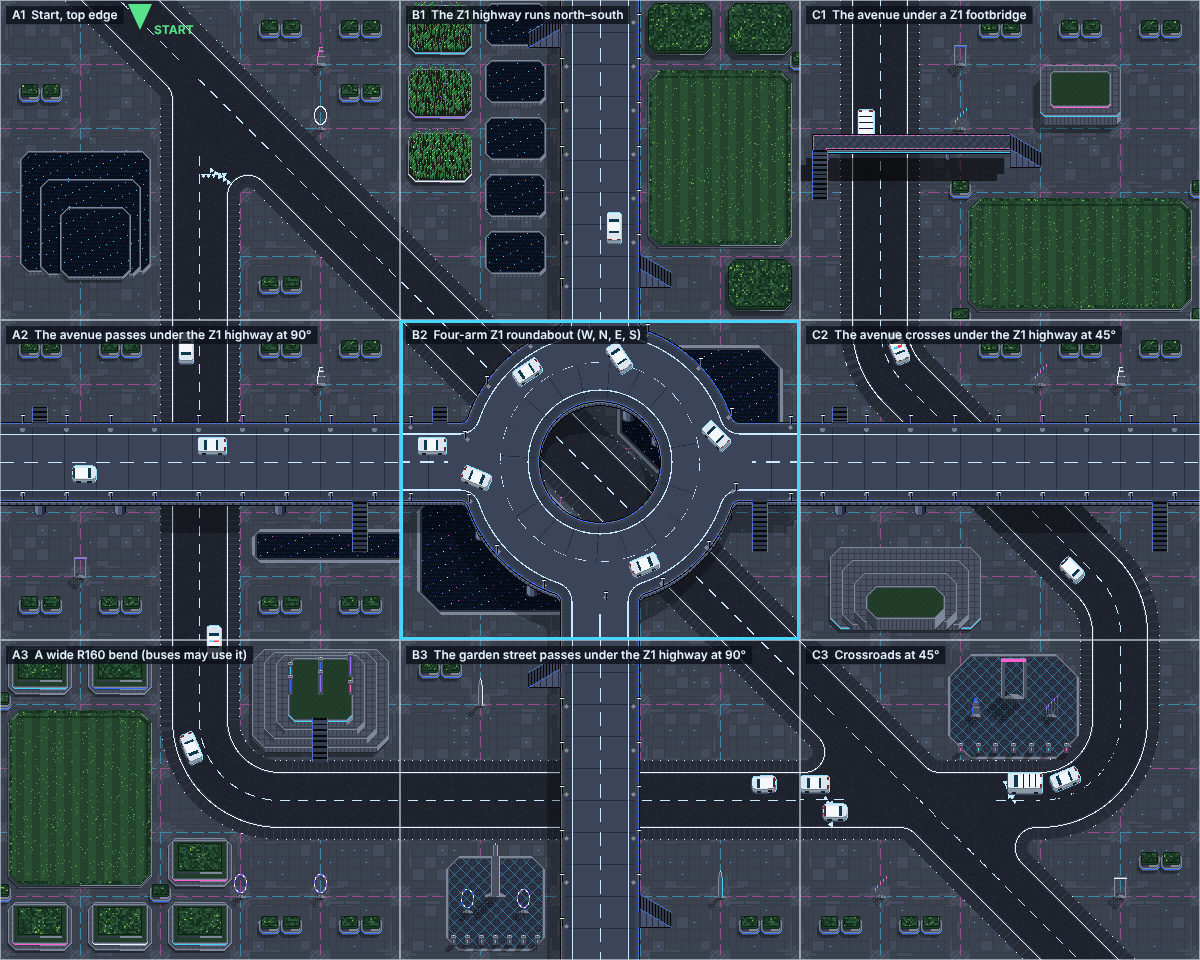
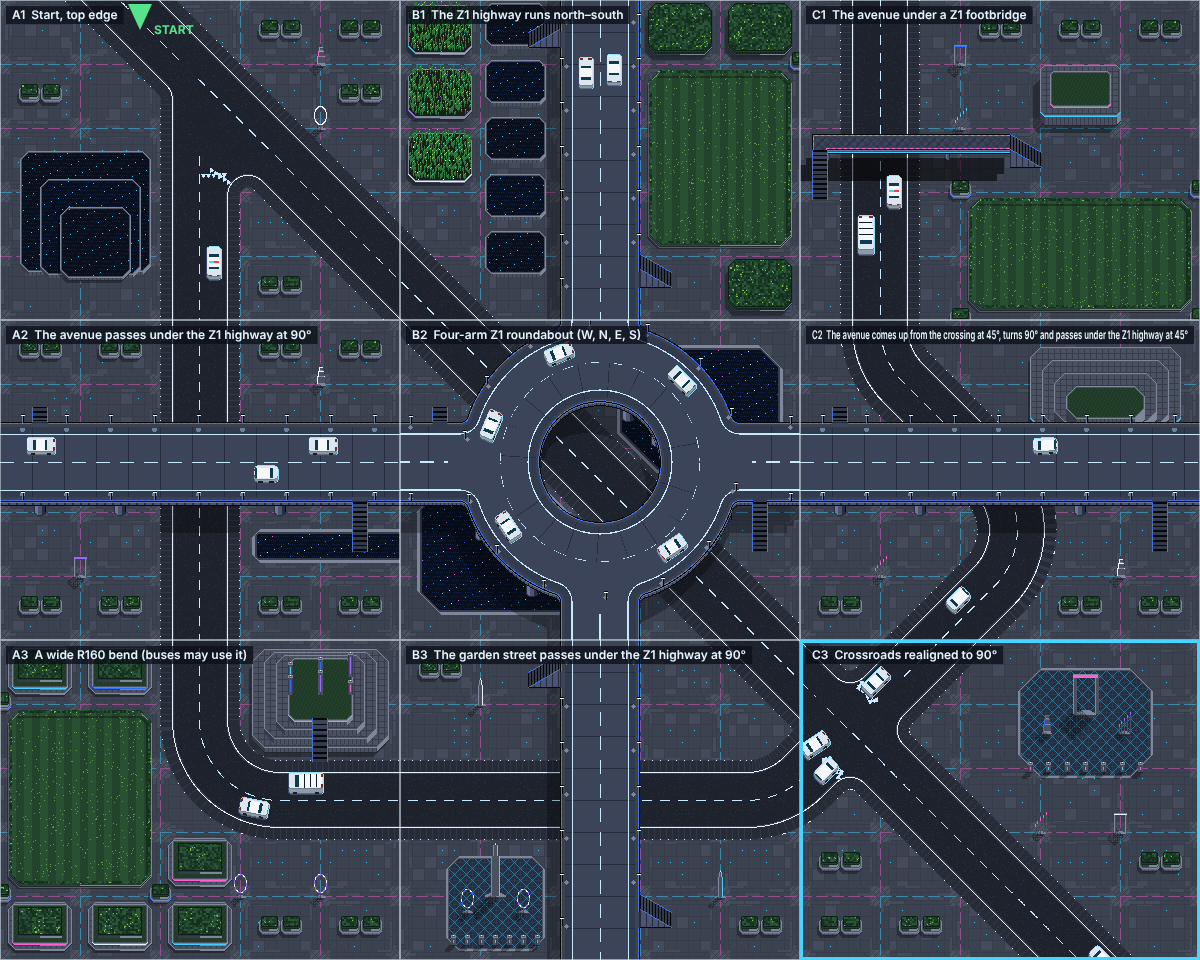
Edit 55.1: crossing rules - realign 45° four-ways to 90°, skewed rings only in B2, flyovers only when named
- Parkland C3's 45° crossroads realigned (option A): the loop bends 45° at B3's east
  edge, crosses the boulevard at 90° in C3 and turns 90° in C2. C3's court and C2's
  amphitheatre move.
- Mock-up warns on a four-way crossing off 90°, a skewed ring outside the centre tile,
  and a flyover the plan does not name.
- Example page marks the decision: A the rule, C centre tile only, D named designs
  only, B not used. world.junctionStagger retires (registry edit55.1-2026-10-25).
- Decisions 281-285; D31 resolved.

Claude-Session: https://claude.ai/code/session_01KeEnBqKVKChcdtWf1hTxkG

diff --git a/prototypes/p5/crossing_options.html b/prototypes/p5/crossing_options.html
@@ -22,6 +22,8 @@
   figcaption ul { margin: 4px 0 0; padding-left: 18px; }
   .plus { color: var(--good); } .minus { color: var(--warn); }
   .live { color: var(--accent); margin-top: 4px; }
+  .tag { display: inline-block; font-size: 11px; font-weight: 700; padding: 1px 6px; border-radius: 4px; margin-left: 6px; vertical-align: 1px; }
+  .yes { background: #173a26; color: var(--good); } .no { background: #3a2417; color: var(--warn); } .some { background: #16304a; color: var(--accent); }
   table { border-collapse: collapse; width: 100%; font-size: 12px; }
   th, td { border-bottom: 1px solid var(--line); padding: 5px 8px; text-align: left; vertical-align: top; }
   th { color: var(--dim); font-weight: 600; }
@@ -36,28 +38,29 @@
 <header>
   <h1>A 45° crossroads · four engineered options</h1>
   <p>Example only, not in the districts. A W–E road (priority) crossed by a 45° road, in game art with live P5 traffic. Road design guides want crossings at 90°, accept 75° and realign anything under 60°. A 45° four-way crossing is below every guide's minimum. These are the four standard ways out.</p>
+  <p><b style="color:var(--ink)">Decided (user, 25 October):</b> A is the rule. C only in a district's centre tile (B2). D only where a level design names it. B is rejected.</p>
 </header>
 <main>
   <section>
     <div style="display:flex;gap:8px;align-items:center;margin-bottom:10px"><button id="play">Pause</button><span class="note" style="margin:0">Each option runs its own traffic. Cars enter at its edges about every 1.6 s.</span></div>
     <div class="opts">
-      <figure><canvas id="x0"></canvas><figcaption><b>Today: crossroads at 45°</b>
+      <figure><canvas id="x0"></canvas><figcaption><b>Today: crossroads at 45°<span class="tag no">Retired</span></b>
         Four arms meet at one point. The 45° road gives way.
         <ul><li class="minus">Two turns are 135° hairpins; drivers on the 45° road look back over their shoulder.</li><li class="minus">Paths cross in the middle of a wide, skewed box.</li></ul>
         <div class="live" id="l0"></div></figcaption></figure>
-      <figure><canvas id="x1"></canvas><figcaption><b>A · Realigned to 90°</b>
+      <figure><canvas id="x1"></canvas><figcaption><b>A · Realigned to 90°<span class="tag yes">Adopted: the rule</span></b>
         The 45° road bends to meet the W–E road square, then bends back out. The standard fix below 60°.
         <ul><li class="plus">One junction, every turn 90°, clear sightlines.</li><li class="minus">Needs land for the reverse curves (R 224 bends); the 45° road slows for them.</li></ul>
         <div class="live" id="l1"></div></figcaption></figure>
-      <figure><canvas id="x2"></canvas><figcaption><b>B · Staggered T junctions</b>
+      <figure><canvas id="x2"></canvas><figcaption><b>B · Staggered T junctions<span class="tag no">Rejected</span></b>
         The crossing splits into two T junctions 256 apart. Crossing traffic turns left onto the W–E road, then right off it (the preferred stagger, keep right).
         <ul><li class="plus">Only three-way junctions, each at 90°; one conflict at a time.</li><li class="minus">Crossing traffic shares the W–E road for a block; left turns queue on the link.</li></ul>
         <div class="live" id="l2"></div></figcaption></figure>
-      <figure><canvas id="x3"></canvas><figcaption><b>C · Roundabout, skew kept</b>
+      <figure><canvas id="x3"></canvas><figcaption><b>C · Roundabout, skew kept<span class="tag some">Centre tile (B2) only</span></b>
         A four-arm ring takes the arms as they come. Nothing crosses; everything merges.
         <ul><li class="plus">No crossing conflicts; every turn allowed; the game's ring rules apply.</li><li class="minus">Arms 45° apart get short, tight entries (R 64). Takes the most space.</li></ul>
         <div class="live" id="l3"></div></figcaption></figure>
-      <figure><canvas id="x4"></canvas><figcaption><b>D · Flyover (grade separated)</b>
+      <figure><canvas id="x4"></canvas><figcaption><b>D · Flyover (grade separated)<span class="tag some">Named level designs only</span></b>
         The 45° road rises on a Z1 deck and passes over. The interchange answer for heavy traffic.
         <ul><li class="plus">No conflict at all; uses the game's Z1 highway kit and its drop-onto-cars play.</li><li class="minus">No turns between the two roads without ramps or link roads elsewhere.</li></ul>
         <div class="live" id="l4"></div></figcaption></figure>
@@ -5677,8 +5680,8 @@ window.CROSS_REPORT = {
   const DISTRICTS = [
     { id: 'parkland', name: 'Parkland', quota: P['world.district.parkland.quota'], storeys: [2, 5], start: ['A1', 'top'],
       mood: 'Calm, water, concrete and planting. Two Z1 highways meet at a four-arm ring over the pools; a 45° boulevard passes beneath.',
-      roads: [{ id: 'boulevard', pts: [[40, -200], [2360, 2120]] }, { id: 'loop', pts: fil([[400, 160], [400, 1600], [2240, 1600], [2240, 1200], [1760, 720], [1760, -200]], RB) }],
-      junctions: [{ tile: 'A1', at: [400, 160], major: 'boulevard' }, { tile: 'C3', at: [240, 320], major: 'boulevard' }],
+      roads: [{ id: 'boulevard', pts: [[40, -200], [2360, 2120]] }, { id: 'loop', pts: fil([[400, 160], [400, 1600], [1560, 1600], [2100, 1060], [1760, 720], [1760, -200]], RB) }], // Edit 55.1: realigned to cross the boulevard at 90° (option A)
+      junctions: [{ tile: 'A1', at: [400, 160], major: 'boulevard' }, { tile: 'C3', at: [100, 180], major: 'boulevard' }],
       ring: { tile: 'B2', z: 1, arms: ['W', 'N', 'E', 'S'] },
       decks: [{ hz: true, at: 960, z: 1 }, { hz: false, at: 1200, z: 1 }], park: true,
       tiles: {
@@ -5687,10 +5690,10 @@ window.CROSS_REPORT = {
         C1: ['The avenue under a Z1 footbridge: escalators at both ends, drop onto cars', 'Lantern pavilion', 'both'],
         A2: ['The avenue passes under the Z1 highway at 90°; escalators north (west end) and south (east end)', 'Canal along the highway', 'both'],
         B2: ['Four-arm Z1 roundabout (W, N, E, S). Give way to the ring; the inner lane is the orbit lane. The boulevard passes beneath, through the hole', 'Reflecting pools under the ring', 'both'],
-        C2: ['The avenue crosses under the Z1 highway at 45°', 'Amphitheatre terraces', 'both'],
+        C2: ['The avenue comes up from the crossing at 45°, turns 90° and passes under the Z1 highway at 45°', 'Amphitheatre terraces', 'both'],
         A3: ['A wide R160 bend (buses may use it)', 'Belvedere: four tiers and a stair up to a lawn, the monolith orchard on top', 'both'],
-        B3: ['The garden street passes under the Z1 highway at 90°; escalators', 'Sculpture court: a large obelisk, two rings, a row of lit bollards', 'both'],
-        C3: ['Crossroads at 45°: the street gives way to the boulevard; then a wide R160 bend north', 'Sculpture court at grade: a large arch, two medium pieces, a row of lit bollards', 'scenery'] } },
+        B3: ['The garden street passes under the Z1 highway at 90°; escalators. At the east edge it bends 45° toward the crossing', 'Sculpture court: a large obelisk, two rings, a row of lit bollards', 'both'],
+        C3: ['Crossroads realigned to 90°: the street bends 45° to cross the boulevard square, and gives way', 'Sculpture court at grade: a large arch, two medium pieces, a row of lit bollards', 'scenery'] } },
     { id: 'circus', name: 'Circus', quota: P['world.district.circus.quota'], storeys: [6, 14], start: ['A2', 'west'],
       mood: 'Busy and circling, walled by monumental concrete. An octagon of streets rings the four-arm roundabout.',
       roads: [{ id: 'octagon', pts: loop2(fil([[800, 480], [560, 480], [480, 560], [480, 1360], [560, 1440], [1840, 1440], [1920, 1360], [1920, 560], [1840, 480], [800, 480]])) },
@@ -5836,6 +5839,10 @@ window.CROSS_REPORT = {
     const name = TILE(col, row), ox = col * W, oy = row * H, rng = PIX.rng(1000 + col * 37 + row * 101 + D.id.length * 7), plan = D.tiles[name];
     const sc = { D, name, col, row, props: [], layers: [], tops: [], note: plan[0] + '. Landmark: ' + plan[1] + '.', stairs: [], reserve: [] };
     for (const rb of [D.roundabout, D.ring]) if (rb && rb.arms.length < P['world.roundaboutMinArms']) console.warn('a roundabout with too few arms', D.id); // Edit 52
+    if (D.kit !== 'example') { // Edit 55.1 (user, 25 October): a 45° four-way crossing is realigned to 90° (A); a ring keeps a 45° skew only in the centre tile (C); a flyover only where the plan names it (D)
+      for (const rb of [D.roundabout, D.ring]) if (rb && rb.tile === name && rb.arms.some((k) => k.length === 2) && name !== 'B2') console.warn('a skewed roundabout outside the centre tile', D.id, name);
+      if (D.flyover && !D.flyoverNamed) console.warn('a 45° flyover the plan does not name', D.id);
+    }
     const runs = [];
     for (const r of D.roads) { const run = clipRun(shift(r.pts, -ox, -oy), -200, -200, W + 200, H + 200); if (run) runs.push({ id: r.id, pts: run }); }
     const decks = D.decks.map((d) => ({ hz: d.hz, z: d.z, off: d.hz ? d.at - oy : d.at - ox })).filter((d) => d.off > -HALF && d.off < (d.hz ? H : W) + HALF);
@@ -5860,6 +5867,8 @@ window.CROSS_REPORT = {
       roadD = (k) => rf.D[k];
     } else if (J) { // a junction at 90° or 45°: the minor road gives way (Edit 49.3)
       const { arms, major } = junctionArms(runs, J.at, J.major), geo = L.junction(X, P, arms, major, P['world.junctionTurnRadius']), s = labSim(geo, 'nobus', {});
+      const dirs = Object.values(arms).map((A) => Math.atan2(A[1][1] - A[0][1], A[1][0] - A[0][0]) * 180 / Math.PI); // Edit 55.1: four arms meet square
+      if (dirs.length >= 4 && dirs.some((a) => dirs.some((b) => { const d = Math.abs(((a - b) % 90 + 90) % 90); return Math.min(d, 90 - d) > 2; }))) console.warn('a four-way crossing off 90° (realign: option A)', D.id, name);
       sims.push(s); sc.lab = s;
       ground = PIX.ground(lvl(geo.center, { arms: geo.arms, surfaces: geo.roads, giveWays: s.lab.geo.stops.map((p) => ({ x: p.x, y: p.y, tx: p.tx, ty: p.ty })), patches }), P, 29 + col * 7 + row * 13);
       const rf = PIX.roadField(geo.roads.map((pts) => ({ pts, dash: false })), OUTER + 80);
@@ -5944,11 +5953,11 @@ window.CROSS_REPORT = {
     if (name === 'B1') R.push([150, 24, 160, 560]);
     if (name === 'C1') R.push([440, 120, 240, 160], [0, 280, 440, 80]);
     if (name === 'A2') R.push([500, 416, 300, 72]);
-    if (name === 'C2') R.push([40, 440, 340, 190]);
+    if (name === 'C2') R.push([440, 40, 340, 190]);
     if (name === 'A3') R.push([496, 20, 288, 212]);
     if (name === 'B3') R.push([90, 430, 200, 190]);
-    if (name === 'C3') R.push([290, 24, 270, 216]);
-    const ANCHOR = { A1: [24, 300, 300, 280], B1: [150, 24, 160, 560], B2: [200, 100, 400, 440], C2: [40, 440, 340, 190], A3: [496, 20, 288, 212], C3: [290, 24, 270, 216] }; // Edit 55: the tile's set piece is its large unit
+    if (name === 'C3') R.push([430, 50, 280, 230]);
+    const ANCHOR = { A1: [24, 300, 300, 280], B1: [150, 24, 160, 560], B2: [200, 100, 400, 440], C2: [440, 40, 340, 190], A3: [496, 20, 288, 212], C3: [430, 50, 280, 230] }; // Edit 55: the tile's set piece is its large unit
     const left = gardenPlan(B, { bedOk: (wx, wy) => free(wx, wy, 8), rng, leds: LEDS, pools: name !== 'B2', anchor: ANCHOR[name] || null });
     gardenSculptures(B, (wx, wy) => free(wx, wy, 16), null, rng, 2, left);
     const u = (v) => v / U;
@@ -5963,7 +5972,7 @@ window.CROSS_REPORT = {
       block(B, u(480), u(150), u(640), u(250), 4, 0, 10, 'conc', LEDS[0], true); block(B, u(500), u(165), u(620), u(235), 3, 10, 2, 'grass', LEDS[3 % LEDS.length], false);
     }
     if (name === 'A2') poolFP(B, (wx, wy, ins) => chamf(510, 424, 800 + 40, 480, 8)(wx, wy, ins)); // canal along the highway
-    if (name === 'C2') { for (let i = 0; i < 4; i++) block(B, u(60 + i * 24), u(460 + i * 32), u(360 - i * 24), u(620), 10, 0, 3 + i * 3, i === 3 ? 'grass' : 'conc', i === 0 ? LEDS[0] : null, i === 0); sc.terraces = true; } // amphitheatre terraces
+    if (name === 'C2') { for (let i = 0; i < 4; i++) block(B, u(460 + i * 24), u(60 + i * 32), u(760 - i * 24), u(220), 10, 0, 3 + i * 3, i === 3 ? 'grass' : 'conc', i === 0 ? LEDS[0] : null, i === 0); sc.terraces = true; } // amphitheatre terraces
     if (name === 'A3') { // Edit 54: the belvedere. Four one-storey tiers to a lawn, a stair up the south face, the monolith orchard on top
       const t = EXT(P['world.storeyHeight']);
       for (let i = 0; i < 4; i++) block(B, u(504 + i * 24), u(28 + i * 16), u(776 - i * 24), u(224 - i * 8), 12 - i * 2, i * t, t, i === 3 ? 'grass' : 'conc', i === 3 ? LEDS[0] : null, i === 0);
@@ -5971,7 +5980,7 @@ window.CROSS_REPORT = {
       const st = { x: 624, y: 196, w: SWD, h: 48, axis: 'y', low: 244, high: 196, side: 0, z: 1 }; sc.props.push({ spr: PIX.stairs(st, 0, 4 * t), x: u(st.x), y: u(st.y), by: 244 }); sc.terraces = true;
     }
     if (name === 'B3') sculptureCourt(B, u(96), u(436), u(284), u(616), 10, 'obelisk', ['ring', 'ring'], LEDS[0]); // Edit 55: the obelisk large, two rings, a row of lit bollards
-    if (name === 'C3') sculptureCourt(B, u(300), u(32), u(552), u(232), 20, 'arch', ['cubes', 'fins'], led(3)); // Edit 55: at grade (nothing below ground); its south-west side runs parallel to the boulevard
+    if (name === 'C3') sculptureCourt(B, u(440), u(60), u(700), u(270), 20, 'arch', ['cubes', 'fins'], led(3)); // Edit 55: at grade (nothing below ground); Edit 55.1: east of the realigned crossing
   }
   // ---------- Circus: brutalist towers, the octagon, the roundabout
   function circusTile(sc, B, name, roadOk, free, rng, lab, runs) {

diff --git a/prototypes/p5/cityscape_mockup.html b/prototypes/p5/cityscape_mockup.html
@@ -5135,8 +5135,8 @@
   const DISTRICTS = [
     { id: 'parkland', name: 'Parkland', quota: P['world.district.parkland.quota'], storeys: [2, 5], start: ['A1', 'top'],
       mood: 'Calm, water, concrete and planting. Two Z1 highways meet at a four-arm ring over the pools; a 45° boulevard passes beneath.',
-      roads: [{ id: 'boulevard', pts: [[40, -200], [2360, 2120]] }, { id: 'loop', pts: fil([[400, 160], [400, 1600], [2240, 1600], [2240, 1200], [1760, 720], [1760, -200]], RB) }],
-      junctions: [{ tile: 'A1', at: [400, 160], major: 'boulevard' }, { tile: 'C3', at: [240, 320], major: 'boulevard' }],
+      roads: [{ id: 'boulevard', pts: [[40, -200], [2360, 2120]] }, { id: 'loop', pts: fil([[400, 160], [400, 1600], [1560, 1600], [2100, 1060], [1760, 720], [1760, -200]], RB) }], // Edit 55.1: realigned to cross the boulevard at 90° (option A)
+      junctions: [{ tile: 'A1', at: [400, 160], major: 'boulevard' }, { tile: 'C3', at: [100, 180], major: 'boulevard' }],
       ring: { tile: 'B2', z: 1, arms: ['W', 'N', 'E', 'S'] },
       decks: [{ hz: true, at: 960, z: 1 }, { hz: false, at: 1200, z: 1 }], park: true,
       tiles: {
@@ -5145,10 +5145,10 @@
         C1: ['The avenue under a Z1 footbridge: escalators at both ends, drop onto cars', 'Lantern pavilion', 'both'],
         A2: ['The avenue passes under the Z1 highway at 90°; escalators north (west end) and south (east end)', 'Canal along the highway', 'both'],
         B2: ['Four-arm Z1 roundabout (W, N, E, S). Give way to the ring; the inner lane is the orbit lane. The boulevard passes beneath, through the hole', 'Reflecting pools under the ring', 'both'],
-        C2: ['The avenue crosses under the Z1 highway at 45°', 'Amphitheatre terraces', 'both'],
+        C2: ['The avenue comes up from the crossing at 45°, turns 90° and passes under the Z1 highway at 45°', 'Amphitheatre terraces', 'both'],
         A3: ['A wide R160 bend (buses may use it)', 'Belvedere: four tiers and a stair up to a lawn, the monolith orchard on top', 'both'],
-        B3: ['The garden street passes under the Z1 highway at 90°; escalators', 'Sculpture court: a large obelisk, two rings, a row of lit bollards', 'both'],
-        C3: ['Crossroads at 45°: the street gives way to the boulevard; then a wide R160 bend north', 'Sculpture court at grade: a large arch, two medium pieces, a row of lit bollards', 'scenery'] } },
+        B3: ['The garden street passes under the Z1 highway at 90°; escalators. At the east edge it bends 45° toward the crossing', 'Sculpture court: a large obelisk, two rings, a row of lit bollards', 'both'],
+        C3: ['Crossroads realigned to 90°: the street bends 45° to cross the boulevard square, and gives way', 'Sculpture court at grade: a large arch, two medium pieces, a row of lit bollards', 'scenery'] } },
     { id: 'circus', name: 'Circus', quota: P['world.district.circus.quota'], storeys: [6, 14], start: ['A2', 'west'],
       mood: 'Busy and circling, walled by monumental concrete. An octagon of streets rings the four-arm roundabout.',
       roads: [{ id: 'octagon', pts: loop2(fil([[800, 480], [560, 480], [480, 560], [480, 1360], [560, 1440], [1840, 1440], [1920, 1360], [1920, 560], [1840, 480], [800, 480]])) },
@@ -5294,6 +5294,10 @@
     const name = TILE(col, row), ox = col * W, oy = row * H, rng = PIX.rng(1000 + col * 37 + row * 101 + D.id.length * 7), plan = D.tiles[name];
     const sc = { D, name, col, row, props: [], layers: [], tops: [], note: plan[0] + '. Landmark: ' + plan[1] + '.', stairs: [], reserve: [] };
     for (const rb of [D.roundabout, D.ring]) if (rb && rb.arms.length < P['world.roundaboutMinArms']) console.warn('a roundabout with too few arms', D.id); // Edit 52
+    if (D.kit !== 'example') { // Edit 55.1 (user, 25 October): a 45° four-way crossing is realigned to 90° (A); a ring keeps a 45° skew only in the centre tile (C); a flyover only where the plan names it (D)
+      for (const rb of [D.roundabout, D.ring]) if (rb && rb.tile === name && rb.arms.some((k) => k.length === 2) && name !== 'B2') console.warn('a skewed roundabout outside the centre tile', D.id, name);
+      if (D.flyover && !D.flyoverNamed) console.warn('a 45° flyover the plan does not name', D.id);
+    }
     const runs = [];
     for (const r of D.roads) { const run = clipRun(shift(r.pts, -ox, -oy), -200, -200, W + 200, H + 200); if (run) runs.push({ id: r.id, pts: run }); }
     const decks = D.decks.map((d) => ({ hz: d.hz, z: d.z, off: d.hz ? d.at - oy : d.at - ox })).filter((d) => d.off > -HALF && d.off < (d.hz ? H : W) + HALF);
@@ -5318,6 +5322,8 @@
       roadD = (k) => rf.D[k];
     } else if (J) { // a junction at 90° or 45°: the minor road gives way (Edit 49.3)
       const { arms, major } = junctionArms(runs, J.at, J.major), geo = L.junction(X, P, arms, major, P['world.junctionTurnRadius']), s = labSim(geo, 'nobus', {});
+      const dirs = Object.values(arms).map((A) => Math.atan2(A[1][1] - A[0][1], A[1][0] - A[0][0]) * 180 / Math.PI); // Edit 55.1: four arms meet square
+      if (dirs.length >= 4 && dirs.some((a) => dirs.some((b) => { const d = Math.abs(((a - b) % 90 + 90) % 90); return Math.min(d, 90 - d) > 2; }))) console.warn('a four-way crossing off 90° (realign: option A)', D.id, name);
       sims.push(s); sc.lab = s;
       ground = PIX.ground(lvl(geo.center, { arms: geo.arms, surfaces: geo.roads, giveWays: s.lab.geo.stops.map((p) => ({ x: p.x, y: p.y, tx: p.tx, ty: p.ty })), patches }), P, 29 + col * 7 + row * 13);
       const rf = PIX.roadField(geo.roads.map((pts) => ({ pts, dash: false })), OUTER + 80);
@@ -5402,11 +5408,11 @@
     if (name === 'B1') R.push([150, 24, 160, 560]);
     if (name === 'C1') R.push([440, 120, 240, 160], [0, 280, 440, 80]);
     if (name === 'A2') R.push([500, 416, 300, 72]);
-    if (name === 'C2') R.push([40, 440, 340, 190]);
+    if (name === 'C2') R.push([440, 40, 340, 190]);
     if (name === 'A3') R.push([496, 20, 288, 212]);
     if (name === 'B3') R.push([90, 430, 200, 190]);
-    if (name === 'C3') R.push([290, 24, 270, 216]);
-    const ANCHOR = { A1: [24, 300, 300, 280], B1: [150, 24, 160, 560], B2: [200, 100, 400, 440], C2: [40, 440, 340, 190], A3: [496, 20, 288, 212], C3: [290, 24, 270, 216] }; // Edit 55: the tile's set piece is its large unit
+    if (name === 'C3') R.push([430, 50, 280, 230]);
+    const ANCHOR = { A1: [24, 300, 300, 280], B1: [150, 24, 160, 560], B2: [200, 100, 400, 440], C2: [440, 40, 340, 190], A3: [496, 20, 288, 212], C3: [430, 50, 280, 230] }; // Edit 55: the tile's set piece is its large unit
     const left = gardenPlan(B, { bedOk: (wx, wy) => free(wx, wy, 8), rng, leds: LEDS, pools: name !== 'B2', anchor: ANCHOR[name] || null });
     gardenSculptures(B, (wx, wy) => free(wx, wy, 16), null, rng, 2, left);
     const u = (v) => v / U;
@@ -5421,7 +5427,7 @@
       block(B, u(480), u(150), u(640), u(250), 4, 0, 10, 'conc', LEDS[0], true); block(B, u(500), u(165), u(620), u(235), 3, 10, 2, 'grass', LEDS[3 % LEDS.length], false);
     }
     if (name === 'A2') poolFP(B, (wx, wy, ins) => chamf(510, 424, 800 + 40, 480, 8)(wx, wy, ins)); // canal along the highway
-    if (name === 'C2') { for (let i = 0; i < 4; i++) block(B, u(60 + i * 24), u(460 + i * 32), u(360 - i * 24), u(620), 10, 0, 3 + i * 3, i === 3 ? 'grass' : 'conc', i === 0 ? LEDS[0] : null, i === 0); sc.terraces = true; } // amphitheatre terraces
+    if (name === 'C2') { for (let i = 0; i < 4; i++) block(B, u(460 + i * 24), u(60 + i * 32), u(760 - i * 24), u(220), 10, 0, 3 + i * 3, i === 3 ? 'grass' : 'conc', i === 0 ? LEDS[0] : null, i === 0); sc.terraces = true; } // amphitheatre terraces
     if (name === 'A3') { // Edit 54: the belvedere. Four one-storey tiers to a lawn, a stair up the south face, the monolith orchard on top
       const t = EXT(P['world.storeyHeight']);
       for (let i = 0; i < 4; i++) block(B, u(504 + i * 24), u(28 + i * 16), u(776 - i * 24), u(224 - i * 8), 12 - i * 2, i * t, t, i === 3 ? 'grass' : 'conc', i === 3 ? LEDS[0] : null, i === 0);
@@ -5429,7 +5435,7 @@
       const st = { x: 624, y: 196, w: SWD, h: 48, axis: 'y', low: 244, high: 196, side: 0, z: 1 }; sc.props.push({ spr: PIX.stairs(st, 0, 4 * t), x: u(st.x), y: u(st.y), by: 244 }); sc.terraces = true;
     }
     if (name === 'B3') sculptureCourt(B, u(96), u(436), u(284), u(616), 10, 'obelisk', ['ring', 'ring'], LEDS[0]); // Edit 55: the obelisk large, two rings, a row of lit bollards
-    if (name === 'C3') sculptureCourt(B, u(300), u(32), u(552), u(232), 20, 'arch', ['cubes', 'fins'], led(3)); // Edit 55: at grade (nothing below ground); its south-west side runs parallel to the boulevard
+    if (name === 'C3') sculptureCourt(B, u(440), u(60), u(700), u(270), 20, 'arch', ['cubes', 'fins'], led(3)); // Edit 55: at grade (nothing below ground); Edit 55.1: east of the realigned crossing
   }
   // ---------- Circus: brutalist towers, the octagon, the roundabout
   function circusTile(sc, B, name, roadOk, free, rng, lab, runs) {

diff --git a/prototypes/p5/cityscape_view.js b/prototypes/p5/cityscape_view.js
@@ -401,8 +401,8 @@
   const DISTRICTS = [
     { id: 'parkland', name: 'Parkland', quota: P['world.district.parkland.quota'], storeys: [2, 5], start: ['A1', 'top'],
       mood: 'Calm, water, concrete and planting. Two Z1 highways meet at a four-arm ring over the pools; a 45° boulevard passes beneath.',
-      roads: [{ id: 'boulevard', pts: [[40, -200], [2360, 2120]] }, { id: 'loop', pts: fil([[400, 160], [400, 1600], [2240, 1600], [2240, 1200], [1760, 720], [1760, -200]], RB) }],
-      junctions: [{ tile: 'A1', at: [400, 160], major: 'boulevard' }, { tile: 'C3', at: [240, 320], major: 'boulevard' }],
+      roads: [{ id: 'boulevard', pts: [[40, -200], [2360, 2120]] }, { id: 'loop', pts: fil([[400, 160], [400, 1600], [1560, 1600], [2100, 1060], [1760, 720], [1760, -200]], RB) }], // Edit 55.1: realigned to cross the boulevard at 90° (option A)
+      junctions: [{ tile: 'A1', at: [400, 160], major: 'boulevard' }, { tile: 'C3', at: [100, 180], major: 'boulevard' }],
       ring: { tile: 'B2', z: 1, arms: ['W', 'N', 'E', 'S'] },
       decks: [{ hz: true, at: 960, z: 1 }, { hz: false, at: 1200, z: 1 }], park: true,
       tiles: {
@@ -411,10 +411,10 @@
         C1: ['The avenue under a Z1 footbridge: escalators at both ends, drop onto cars', 'Lantern pavilion', 'both'],
         A2: ['The avenue passes under the Z1 highway at 90°; escalators north (west end) and south (east end)', 'Canal along the highway', 'both'],
         B2: ['Four-arm Z1 roundabout (W, N, E, S). Give way to the ring; the inner lane is the orbit lane. The boulevard passes beneath, through the hole', 'Reflecting pools under the ring', 'both'],
-        C2: ['The avenue crosses under the Z1 highway at 45°', 'Amphitheatre terraces', 'both'],
+        C2: ['The avenue comes up from the crossing at 45°, turns 90° and passes under the Z1 highway at 45°', 'Amphitheatre terraces', 'both'],
         A3: ['A wide R160 bend (buses may use it)', 'Belvedere: four tiers and a stair up to a lawn, the monolith orchard on top', 'both'],
-        B3: ['The garden street passes under the Z1 highway at 90°; escalators', 'Sculpture court: a large obelisk, two rings, a row of lit bollards', 'both'],
-        C3: ['Crossroads at 45°: the street gives way to the boulevard; then a wide R160 bend north', 'Sculpture court at grade: a large arch, two medium pieces, a row of lit bollards', 'scenery'] } },
+        B3: ['The garden street passes under the Z1 highway at 90°; escalators. At the east edge it bends 45° toward the crossing', 'Sculpture court: a large obelisk, two rings, a row of lit bollards', 'both'],
+        C3: ['Crossroads realigned to 90°: the street bends 45° to cross the boulevard square, and gives way', 'Sculpture court at grade: a large arch, two medium pieces, a row of lit bollards', 'scenery'] } },
     { id: 'circus', name: 'Circus', quota: P['world.district.circus.quota'], storeys: [6, 14], start: ['A2', 'west'],
       mood: 'Busy and circling, walled by monumental concrete. An octagon of streets rings the four-arm roundabout.',
       roads: [{ id: 'octagon', pts: loop2(fil([[800, 480], [560, 480], [480, 560], [480, 1360], [560, 1440], [1840, 1440], [1920, 1360], [1920, 560], [1840, 480], [800, 480]])) },
@@ -560,6 +560,10 @@
     const name = TILE(col, row), ox = col * W, oy = row * H, rng = PIX.rng(1000 + col * 37 + row * 101 + D.id.length * 7), plan = D.tiles[name];
     const sc = { D, name, col, row, props: [], layers: [], tops: [], note: plan[0] + '. Landmark: ' + plan[1] + '.', stairs: [], reserve: [] };
     for (const rb of [D.roundabout, D.ring]) if (rb && rb.arms.length < P['world.roundaboutMinArms']) console.warn('a roundabout with too few arms', D.id); // Edit 52
+    if (D.kit !== 'example') { // Edit 55.1 (user, 25 October): a 45° four-way crossing is realigned to 90° (A); a ring keeps a 45° skew only in the centre tile (C); a flyover only where the plan names it (D)
+      for (const rb of [D.roundabout, D.ring]) if (rb && rb.tile === name && rb.arms.some((k) => k.length === 2) && name !== 'B2') console.warn('a skewed roundabout outside the centre tile', D.id, name);
+      if (D.flyover && !D.flyoverNamed) console.warn('a 45° flyover the plan does not name', D.id);
+    }
     const runs = [];
     for (const r of D.roads) { const run = clipRun(shift(r.pts, -ox, -oy), -200, -200, W + 200, H + 200); if (run) runs.push({ id: r.id, pts: run }); }
     const decks = D.decks.map((d) => ({ hz: d.hz, z: d.z, off: d.hz ? d.at - oy : d.at - ox })).filter((d) => d.off > -HALF && d.off < (d.hz ? H : W) + HALF);
@@ -584,6 +588,8 @@
       roadD = (k) => rf.D[k];
     } else if (J) { // a junction at 90° or 45°: the minor road gives way (Edit 49.3)
       const { arms, major } = junctionArms(runs, J.at, J.major), geo = L.junction(X, P, arms, major, P['world.junctionTurnRadius']), s = labSim(geo, 'nobus', {});
+      const dirs = Object.values(arms).map((A) => Math.atan2(A[1][1] - A[0][1], A[1][0] - A[0][0]) * 180 / Math.PI); // Edit 55.1: four arms meet square
+      if (dirs.length >= 4 && dirs.some((a) => dirs.some((b) => { const d = Math.abs(((a - b) % 90 + 90) % 90); return Math.min(d, 90 - d) > 2; }))) console.warn('a four-way crossing off 90° (realign: option A)', D.id, name);
       sims.push(s); sc.lab = s;
       ground = PIX.ground(lvl(geo.center, { arms: geo.arms, surfaces: geo.roads, giveWays: s.lab.geo.stops.map((p) => ({ x: p.x, y: p.y, tx: p.tx, ty: p.ty })), patches }), P, 29 + col * 7 + row * 13);
       const rf = PIX.roadField(geo.roads.map((pts) => ({ pts, dash: false })), OUTER + 80);
@@ -668,11 +674,11 @@
     if (name === 'B1') R.push([150, 24, 160, 560]);
     if (name === 'C1') R.push([440, 120, 240, 160], [0, 280, 440, 80]);
     if (name === 'A2') R.push([500, 416, 300, 72]);
-    if (name === 'C2') R.push([40, 440, 340, 190]);
+    if (name === 'C2') R.push([440, 40, 340, 190]);
     if (name === 'A3') R.push([496, 20, 288, 212]);
     if (name === 'B3') R.push([90, 430, 200, 190]);
-    if (name === 'C3') R.push([290, 24, 270, 216]);
-    const ANCHOR = { A1: [24, 300, 300, 280], B1: [150, 24, 160, 560], B2: [200, 100, 400, 440], C2: [40, 440, 340, 190], A3: [496, 20, 288, 212], C3: [290, 24, 270, 216] }; // Edit 55: the tile's set piece is its large unit
+    if (name === 'C3') R.push([430, 50, 280, 230]);
+    const ANCHOR = { A1: [24, 300, 300, 280], B1: [150, 24, 160, 560], B2: [200, 100, 400, 440], C2: [440, 40, 340, 190], A3: [496, 20, 288, 212], C3: [430, 50, 280, 230] }; // Edit 55: the tile's set piece is its large unit
     const left = gardenPlan(B, { bedOk: (wx, wy) => free(wx, wy, 8), rng, leds: LEDS, pools: name !== 'B2', anchor: ANCHOR[name] || null });
     gardenSculptures(B, (wx, wy) => free(wx, wy, 16), null, rng, 2, left);
     const u = (v) => v / U;
@@ -687,7 +693,7 @@
       block(B, u(480), u(150), u(640), u(250), 4, 0, 10, 'conc', LEDS[0], true); block(B, u(500), u(165), u(620), u(235), 3, 10, 2, 'grass', LEDS[3 % LEDS.length], false);
     }
     if (name === 'A2') poolFP(B, (wx, wy, ins) => chamf(510, 424, 800 + 40, 480, 8)(wx, wy, ins)); // canal along the highway
-    if (name === 'C2') { for (let i = 0; i < 4; i++) block(B, u(60 + i * 24), u(460 + i * 32), u(360 - i * 24), u(620), 10, 0, 3 + i * 3, i === 3 ? 'grass' : 'conc', i === 0 ? LEDS[0] : null, i === 0); sc.terraces = true; } // amphitheatre terraces
+    if (name === 'C2') { for (let i = 0; i < 4; i++) block(B, u(460 + i * 24), u(60 + i * 32), u(760 - i * 24), u(220), 10, 0, 3 + i * 3, i === 3 ? 'grass' : 'conc', i === 0 ? LEDS[0] : null, i === 0); sc.terraces = true; } // amphitheatre terraces
     if (name === 'A3') { // Edit 54: the belvedere. Four one-storey tiers to a lawn, a stair up the south face, the monolith orchard on top
       const t = EXT(P['world.storeyHeight']);
       for (let i = 0; i < 4; i++) block(B, u(504 + i * 24), u(28 + i * 16), u(776 - i * 24), u(224 - i * 8), 12 - i * 2, i * t, t, i === 3 ? 'grass' : 'conc', i === 3 ? LEDS[0] : null, i === 0);
@@ -695,7 +701,7 @@
       const st = { x: 624, y: 196, w: SWD, h: 48, axis: 'y', low: 244, high: 196, side: 0, z: 1 }; sc.props.push({ spr: PIX.stairs(st, 0, 4 * t), x: u(st.x), y: u(st.y), by: 244 }); sc.terraces = true;
     }
     if (name === 'B3') sculptureCourt(B, u(96), u(436), u(284), u(616), 10, 'obelisk', ['ring', 'ring'], LEDS[0]); // Edit 55: the obelisk large, two rings, a row of lit bollards
-    if (name === 'C3') sculptureCourt(B, u(300), u(32), u(552), u(232), 20, 'arch', ['cubes', 'fins'], led(3)); // Edit 55: at grade (nothing below ground); its south-west side runs parallel to the boulevard
+    if (name === 'C3') sculptureCourt(B, u(440), u(60), u(700), u(270), 20, 'arch', ['cubes', 'fins'], led(3)); // Edit 55: at grade (nothing below ground); Edit 55.1: east of the realigned crossing
   }
   // ---------- Circus: brutalist towers, the octagon, the roundabout
   function circusTile(sc, B, name, roadOk, free, rng, lab, runs) {

diff --git a/prototypes/p5/crossing_shell.html b/prototypes/p5/crossing_shell.html
@@ -22,6 +22,8 @@
   figcaption ul { margin: 4px 0 0; padding-left: 18px; }
   .plus { color: var(--good); } .minus { color: var(--warn); }
   .live { color: var(--accent); margin-top: 4px; }
+  .tag { display: inline-block; font-size: 11px; font-weight: 700; padding: 1px 6px; border-radius: 4px; margin-left: 6px; vertical-align: 1px; }
+  .yes { background: #173a26; color: var(--good); } .no { background: #3a2417; color: var(--warn); } .some { background: #16304a; color: var(--accent); }
   table { border-collapse: collapse; width: 100%; font-size: 12px; }
   th, td { border-bottom: 1px solid var(--line); padding: 5px 8px; text-align: left; vertical-align: top; }
   th { color: var(--dim); font-weight: 600; }
@@ -36,28 +38,29 @@
 <header>
   <h1>A 45° crossroads · four engineered options</h1>
   <p>Example only, not in the districts. A W–E road (priority) crossed by a 45° road, in game art with live P5 traffic. Road design guides want crossings at 90°, accept 75° and realign anything under 60°. A 45° four-way crossing is below every guide's minimum. These are the four standard ways out.</p>
+  <p><b style="color:var(--ink)">Decided (user, 25 October):</b> A is the rule. C only in a district's centre tile (B2). D only where a level design names it. B is rejected.</p>
 </header>
 <main>
   <section>
     <div style="display:flex;gap:8px;align-items:center;margin-bottom:10px"><button id="play">Pause</button><span class="note" style="margin:0">Each option runs its own traffic. Cars enter at its edges about every 1.6 s.</span></div>
     <div class="opts">
-      <figure><canvas id="x0"></canvas><figcaption><b>Today: crossroads at 45°</b>
+      <figure><canvas id="x0"></canvas><figcaption><b>Today: crossroads at 45°<span class="tag no">Retired</span></b>
         Four arms meet at one point. The 45° road gives way.
         <ul><li class="minus">Two turns are 135° hairpins; drivers on the 45° road look back over their shoulder.</li><li class="minus">Paths cross in the middle of a wide, skewed box.</li></ul>
         <div class="live" id="l0"></div></figcaption></figure>
-      <figure><canvas id="x1"></canvas><figcaption><b>A · Realigned to 90°</b>
+      <figure><canvas id="x1"></canvas><figcaption><b>A · Realigned to 90°<span class="tag yes">Adopted: the rule</span></b>
         The 45° road bends to meet the W–E road square, then bends back out. The standard fix below 60°.
         <ul><li class="plus">One junction, every turn 90°, clear sightlines.</li><li class="minus">Needs land for the reverse curves (R 224 bends); the 45° road slows for them.</li></ul>
         <div class="live" id="l1"></div></figcaption></figure>
-      <figure><canvas id="x2"></canvas><figcaption><b>B · Staggered T junctions</b>
+      <figure><canvas id="x2"></canvas><figcaption><b>B · Staggered T junctions<span class="tag no">Rejected</span></b>
         The crossing splits into two T junctions 256 apart. Crossing traffic turns left onto the W–E road, then right off it (the preferred stagger, keep right).
         <ul><li class="plus">Only three-way junctions, each at 90°; one conflict at a time.</li><li class="minus">Crossing traffic shares the W–E road for a block; left turns queue on the link.</li></ul>
         <div class="live" id="l2"></div></figcaption></figure>
-      <figure><canvas id="x3"></canvas><figcaption><b>C · Roundabout, skew kept</b>
+      <figure><canvas id="x3"></canvas><figcaption><b>C · Roundabout, skew kept<span class="tag some">Centre tile (B2) only</span></b>
         A four-arm ring takes the arms as they come. Nothing crosses; everything merges.
         <ul><li class="plus">No crossing conflicts; every turn allowed; the game's ring rules apply.</li><li class="minus">Arms 45° apart get short, tight entries (R 64). Takes the most space.</li></ul>
         <div class="live" id="l3"></div></figcaption></figure>
-      <figure><canvas id="x4"></canvas><figcaption><b>D · Flyover (grade separated)</b>
+      <figure><canvas id="x4"></canvas><figcaption><b>D · Flyover (grade separated)<span class="tag some">Named level designs only</span></b>
         The 45° road rises on a Z1 deck and passes over. The interchange answer for heavy traffic.
         <ul><li class="plus">No conflict at all; uses the game's Z1 highway kit and its drop-onto-cars play.</li><li class="minus">No turns between the two roads without ramps or link roads elsewhere.</li></ul>
         <div class="live" id="l4"></div></figcaption></figure>

diff --git a/DECISIONS.md b/DECISIONS.md
@@ -294,6 +294,11 @@ All entries dated 6 October 2026 unless stated. Times are not recorded.
 | 278 | Park planting in three sizes. Large: a great lawn over the largest free block of garden cells, `world.gardenLargeCells` (2) square or one cell more each way, framed by a clipped hedge; one per tile where room allows; a tile's set piece also anchors. Medium: one-cell beds only where they frame the lawn or the set piece, at most `world.gardenBedTypes` (2) types. Small: planters `world.gardenPlanter` (40) across, two to each open square and one at each lawn corner. Amends 243 (beds no longer fill every cell at random) | user-directed (25 October): "the parkland looks ugly because the plant boxes are piece meal. There should be a pleasing hierarchy between small, medium, and large parkland and planting units." The kit is the assistant's | Each tile reads as one composition: a lawn, its frame, a rhythm of planters | More open paving | `prototypes/p5/docs/p60_parkland_planting.png` |
 | 279 | Sculpture in three sizes. A sculpture court, at grade: one large piece at `world.sculptureScaleLarge` (2×) on the axis, two medium pieces either side, `world.courtSmallCount` (7) lit bollards along the front edge (`world.sculptureScaleSmall`, 0.5). Garden path crossings carry medium pieces only. Parkland B3 and C3 become courts | user-directed (25 October): "Again there should be a small, medium, large hierarchy of sculptural elements." The layout is the assistant's | A centrepiece, a pair, a rhythm | — | `prototypes/p5/docs/p60_sculpture_courts.png` |
 | 280 | The registry takes Edit 55: version `edit55-2026-10-25`. Adds `world.junctionStagger`, `world.gardenLargeCells`, `world.gardenBedTypes`, `world.gardenPlanter`, `world.sculptureScaleLarge`, `world.sculptureScaleSmall`, `world.courtSmallCount` | proposed (assistant, 25 October) | Every new statistic has an ID | — | Registry 300 entries |
+| 281 | A 45° four-way crossing is realigned to 90° (option A): the minor road bends 45° and crosses square, every turn at the junction 90°. Resolves D31. Parkland C3: the loop bends 45° at B3's east edge, crosses the boulevard at 90° in C3 and turns 90° in C2 to rejoin its 45° run; C3's sculpture court moves east of the crossing, C2's amphitheatre to its north-east. Three-way 45° junctions stay | user-directed (25 October): "A and C are acceptable." The Parkland geometry is the assistant's | Every four-way crossing meets square | The loop's R160 bend in C3 goes; the crossing sits in C3's north-west | Mock-up warns on a four-way crossing off 90° |
+| 282 | A roundabout that keeps a 45° skew (option C) sits only in a district's centre tile (B2) | user-directed (25 October): "Only C when it is in the central of 3x3 tiles." | The centre stays the district's one big junction | — | Mock-up warns on a skewed ring outside B2 |
+| 283 | A 45° flyover over a road (option D) only where a level design names it; never a default fix | user-directed (25 October): "The 45 degree flyover is fine but only for certain level designs." The 'named in the plan' reading is the assistant's | A flyover stays a set piece | — | Mock-up warns on an unnamed flyover |
+| 284 | Staggered T junctions (option B) are not used. `world.junctionStagger` retires (example only) | user-directed (25 October): only A and C were accepted, D for named designs | — | — | Example page marks B rejected |
+| 285 | The registry takes Edit 55.1: version `edit55.1-2026-10-25`. Retires `world.junctionStagger` | proposed (assistant, 25 October) | — | — | Registry 300 entries |
 
 ## Open decisions (to make)
 
@@ -331,4 +336,4 @@ These are listed so nothing is lost. None is decided. Options marked *recommende
 | D28 | What rewards exploration of the district | Features only (today); quota from N different screens; a model roster per screen; pickups on far screens | Raised by the district build, 20 October. Exploration is optional today |
 | D29 | Two-layer play: stairs, skybridges, drops from a deck | — | **Decided 21 October:** Z0 ground, Z1 low highway, Z2 high highway, roofs and skybridges; stairs and drops (rows 162–168). Underpasses removed. |
 | D30 | GDD 7.2's five level types (Road, Cross junction, Parking lot, Suburb, Crash test centre) against the five districts | Keep both; merge their traffic rules into districts; or drop 7.2 | Junction priority and parking are not built |
-| D31 | A 45° four-way crossroads: which treatment? | A realign to 90°; B two staggered T junctions; C roundabout; D flyover (decision 276) | Example built 25 October: `prototypes/p5/crossing_options.html`. Parkland C3 and every planner crossroads at 45° wait on this |
+| D31 | A 45° four-way crossroads: which treatment? | A realign to 90°; B two staggered T junctions; C roundabout; D flyover (decision 276) | **Decided 25 October:** A is the rule; C only in the centre tile; D only in named level designs; B not used (rows 281–284) |

diff --git a/prototypes/p5/README.md b/prototypes/p5/README.md
@@ -1,6 +1,6 @@
 # DUMMIES — P5 prototype: five models, bus roads, faster highways, one traffic per district
 
-**P5.3 · 25 October 2026 · Lawrence Lek** · Spec: GDD Edits 50–50.2, 51–51.3, 52, 53, 53.1, 54 and 55 (proposed). P3 (P3.4) and P4 (P4.3) are unchanged.
+**P5.3 · 25 October 2026 · Lawrence Lek** · Spec: GDD Edits 50–50.2, 51–51.3, 52, 53, 53.1, 54, 55 and 55.1 (proposed). P3 (P3.4) and P4 (P4.3) are unchanged.
 
 P5 is the game with P4's road and traffic learnings, plus the fleet, highway and points rules of Edits 50 and 50.1.
 
@@ -126,7 +126,10 @@ P5 is the game with P4's road and traffic learnings, plus the fleet, highway and
 
 ## A 45° crossroads: four options (example, Edit 55)
 
-`crossing_options.html`: today's 45° four-way crossing and four treatments from road design practice, one screen each with live traffic. Not in the districts; the user picks (open question D31).
+`crossing_options.html`: today's 45° four-way crossing and four treatments from road design practice, one screen each with live traffic.
+
+- **Decided (Edit 55.1):** A is the rule. C only in a district's centre tile (B2). D only where a level design names it. B is not used.
+- **Parkland C3:** realigned. The loop bends 45° at B3's east edge, crosses the boulevard at 90°, and turns 90° in C2. The mock-up warns on any four-way crossing off 90°.
 
 | Option | Conflict points | Cars out /min at 1.8 s | Longest wait on the 45° road |
 |---|---:|---:|---:|
@@ -137,6 +140,8 @@ P5 is the game with P4's road and traffic learnings, plus the fleet, highway and
 | D · Flyover | 0 | 32–33 | none |
 
 ![Today and the four options](docs/p60_crossing_options.png)
+
+![Parkland with the C3 crossing realigned to 90° (Edit 55.1)](docs/p61_parkland_realigned.png)
 
 ## District traffic (P5.3, Edit 53)
 
@@ -225,7 +230,6 @@ node tools/continuity_report.js   # district-wide traffic: seams, start, queues,
 
 ## Open
 
-- **D31 (Edit 55):** which treatment for a 45° crossroads: realign, stagger, roundabout or flyover.
 
 - **Ring capacity (Edit 53.1):** the widened ring passes about 37 cars/min. Edit 54 feeds Parkland's highways one car per 8 s per end, so nothing waits.
 - **Portals and roof links (Edit 54):** mock-up only. P6: towers may straddle a deck band as portals; a bridge floor joins roof and deck.
